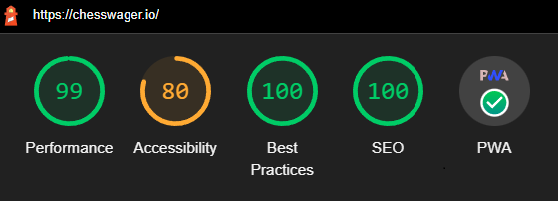
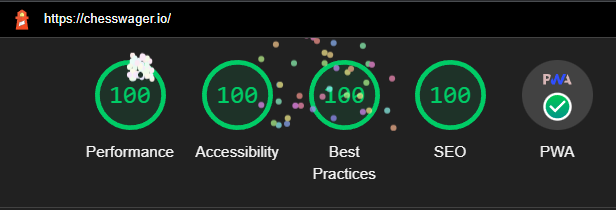
website is now fully accessible, update to readme

diff --git a/src/components/lobby/wager-form/WagerForm.tsx b/src/components/lobby/wager-form/WagerForm.tsx
@@ -16,10 +16,20 @@ import {
 } from "firebase/firestore"
 import { firebaseApp } from "../../../config"
 import { UserDataState } from "../../containers/UserDataState"
-
+import { createTheme } from "@mui/material/styles"
+import { ThemeProvider } from "@mui/system"
+import { DarkMode } from "../../containers/DarkMode"
 const db = getFirestore(firebaseApp)
 
 export const WagerForm: React.FC = () => {
+  const { isDarkOn } = DarkMode.useContainer()
+  const theme = createTheme({
+    palette: {
+      primary: {
+        main: isDarkOn ? "#34d399" : "#166534",
+      },
+    },
+  })
   const { gameId } = GameState.useContainer()
   const {
     walletAddress,
@@ -89,48 +99,50 @@ export const WagerForm: React.FC = () => {
   }
 
   return (
-    <div className="flex h-full rounded-b-md border-r border-b  border-stone-400 bg-stone-200 shadow-2xl dark:border-stone-700 dark:bg-stone-900">
-      <div className="flex w-full p-2">
-        <fieldset className="flex w-full">
-          <form
-            onSubmit={createWager}
-            className="w-full"
-            onKeyPress={(e) => {
-              e.key === "Enter" && e.preventDefault()
-            }}
-          >
-            <div className="flex flex-col justify-around gap-4">
-              <SideChooser betSide={betSide} setBetSide={setBetSide} />
-              <QuickBet
-                setBetAmount={setBetAmount}
-                setLocalAvaxAmount={setLocalAvaxAmount}
-                setLocalUsdAmount={setLocalUsdAmount}
-                setIsAmountEmpty={setIsAmountEmpty}
-              />
-              <BetAmount
-                betAmount={betAmount}
-                setBetAmount={setBetAmount}
-                localAvaxAmount={localAvaxAmount}
-                setLocalAvaxAmount={setLocalAvaxAmount}
-                localUsdAmount={localUsdAmount}
-                setLocalUsdAmount={setLocalUsdAmount}
-                isAmountEmpty={isAmountEmpty}
-                setIsAmountEmpty={setIsAmountEmpty}
-              />
-              <TheirBet multiplier={multiplier} betAmount={betAmount} />
-              <Multiplier
-                setMultiplier={setMultiplier}
-                sliderVal={sliderVal}
-                setSliderVal={setSliderVal}
-              />
-            </div>
-            <div className="mt-4 flex flex-row justify-between gap-2">
-              <Total betAmount={betAmount} multiplier={multiplier} />
-              <PlaceBet />
-            </div>
-          </form>
-        </fieldset>
+    <ThemeProvider theme={theme}>
+      <div className="flex h-full rounded-b-md border-r border-b  border-stone-400 bg-stone-200 shadow-2xl dark:border-stone-700 dark:bg-stone-900">
+        <div className="flex w-full p-2">
+          <fieldset className="flex w-full">
+            <form
+              onSubmit={createWager}
+              className="w-full"
+              onKeyPress={(e) => {
+                e.key === "Enter" && e.preventDefault()
+              }}
+            >
+              <div className="flex flex-col justify-around gap-4">
+                <SideChooser betSide={betSide} setBetSide={setBetSide} />
+                <QuickBet
+                  setBetAmount={setBetAmount}
+                  setLocalAvaxAmount={setLocalAvaxAmount}
+                  setLocalUsdAmount={setLocalUsdAmount}
+                  setIsAmountEmpty={setIsAmountEmpty}
+                />
+                <BetAmount
+                  betAmount={betAmount}
+                  setBetAmount={setBetAmount}
+                  localAvaxAmount={localAvaxAmount}
+                  setLocalAvaxAmount={setLocalAvaxAmount}
+                  localUsdAmount={localUsdAmount}
+                  setLocalUsdAmount={setLocalUsdAmount}
+                  isAmountEmpty={isAmountEmpty}
+                  setIsAmountEmpty={setIsAmountEmpty}
+                />
+                <TheirBet multiplier={multiplier} betAmount={betAmount} />
+                <Multiplier
+                  setMultiplier={setMultiplier}
+                  sliderVal={sliderVal}
+                  setSliderVal={setSliderVal}
+                />
+              </div>
+              <div className="mt-4 flex flex-row justify-between gap-2">
+                <Total betAmount={betAmount} multiplier={multiplier} />
+                <PlaceBet />
+              </div>
+            </form>
+          </fieldset>
+        </div>
       </div>
-    </div>
+    </ThemeProvider>
   )
 }

diff --git a/src/AppWithProviders.tsx b/src/AppWithProviders.tsx
@@ -2,9 +2,6 @@ import { App } from "./App"
 import { Auth } from "./components/containers/Auth"
 import { GameState } from "./components/containers/GameState"
 import { Price } from "./components/containers/Price"
-import { ThemeProvider } from "@mui/system"
-import { createTheme } from "@mui/material/styles"
-import { teal } from "@mui/material/colors"
 import { ChatFormData } from "./components/containers/ChatFormData"
 import { ChatToggle } from "./components/containers/ChatToggle"
 import { DarkMode } from "./components/containers/DarkMode"
@@ -17,11 +14,7 @@ import { ConversationsState } from "./components/containers/ConversationsState"
 import { UserDataState } from "./components/containers/UserDataState"
 import { WindowSize } from "./components/containers/WindowSize"
 
-const theme = createTheme({
-  palette: {
-    primary: teal,
-  },
-})
+
 
 export const AppWithProviders: React.FC = () => {
   return (
@@ -39,9 +32,7 @@ export const AppWithProviders: React.FC = () => {
                           <BetsState.Provider>
                             <ConversationsState.Provider>
                               <UserDataState.Provider>
-                                <ThemeProvider theme={theme}>
-                                  <App />
-                                </ThemeProvider>
+                                <App />
                               </UserDataState.Provider>
                             </ConversationsState.Provider>
                           </BetsState.Provider>

diff --git a/src/components/game/PlayerData.tsx b/src/components/game/PlayerData.tsx
@@ -28,7 +28,7 @@ export const PlayerData: React.FC<Props> = ({
         className="flex flex-col justify-center overflow-hidden hover:text-stone-900 dark:hover:text-white "
       >
         <div className="mx-1.5 flex justify-center">
-          <p className="mx-1 flex font-bold text-teal-700">{title}</p>
+          <p className="mx-1 flex font-bold text-green-700 dark:text-green-500">{title}</p>
           <div className="flex gap-2 hover:underline">
             <p>{name}</p>
             <p className="font-bold">{rating !== 0 ? rating : ""}</p>

diff --git a/src/components/lobby/wager-form/Multiplier.tsx b/src/components/lobby/wager-form/Multiplier.tsx
@@ -77,6 +77,7 @@ export const Multiplier: React.FC<Props> = ({
             max={0.99}
             step={0.01}
             size="small"
+            aria-label="multiplier-slider"
           />
           <p className="flex justify-center">
             <CurrencyInput
@@ -91,6 +92,7 @@ export const Multiplier: React.FC<Props> = ({
               onKeyPress={(e) => {
                 e.key === "Enter" && e.currentTarget.blur()
               }}
+              aria-label="multiplier-number-input"
             />
           </p>
         </div>

diff --git a/src/components/body/ShowChatButton.tsx b/src/components/body/ShowChatButton.tsx
@@ -16,6 +16,7 @@ export const ShowChatButton: React.FC<Props> = ({}) => {
             localStorage.setItem("showChat", "true")
           }}
           className="color-shift absolute top-12 right-0 m-3 rounded-md hover:bg-stone-400 dark:hover:bg-stone-700"
+          title="Show Chat"
         >
           <BiArrowFromRight
             size="1.4em"

diff --git a/src/components/chat/ChatHeader.tsx b/src/components/chat/ChatHeader.tsx
@@ -19,6 +19,7 @@ export const ChatHeader: React.FC = () => {
         <BiArrowFromLeft
           size="1.3em"
           className="color-shift m-1 text-stone-900 dark:text-stone-50"
+          title="Hide Chat"
         />
       </button>
       <div className="text-bold text-md grid place-content-center text-stone-900 dark:text-stone-50">

diff --git a/src/components/lobby/lobby-header/AscDescDisplay.tsx b/src/components/lobby/lobby-header/AscDescDisplay.tsx
@@ -10,6 +10,7 @@ export const AscDescDisplay: React.FC = () => {
       onClick={() => {
         setIsDescending(!isDescending)
       }}
+      aria-label="sorting-order-button"
     >
       <>
         {mostRecentButton === "" ? (

diff --git a/README.md b/README.md
@@ -1,14 +1,15 @@
 [![](readme-assets/banner.png)](https://chesswager.io/)
 
 ##### Chesswager is a highly performant hybrid dApp that uses smart contracts to securely facilitate betting on the top professional games being played on [LichessTV](https://lichess.org/tv)
+
 ---
 
-
 <!-- https://shields.io/ -->
+
 [![License](https://img.shields.io/github/license/geektechniquestudios/ChessWager)](#)
 [![PRs Welcome](https://img.shields.io/badge/PRs-welcome-brightgreen.svg)](#)
-<!-- [![Build](https://img.shields.io/github/checks-status/geektechniquestudios/ChessWager/main)](#) -->
 
+<!-- [![Build](https://img.shields.io/github/checks-status/geektechniquestudios/ChessWager/main)](#) -->
 
 ChessWager is live. A mainnet currency is not supported yet, but you can play on the Avalanche testnet. Download [Metamask](https://metamask.io/download/), switch to the [Avalanche Testnet](https://umbria.network/connect/avalanche-fuji-testnet), and [add some test currency](https://faucet.avax-test.network/) to play at https://chesswager.io/.
 
@@ -17,65 +18,71 @@ ChessWager is live. A mainnet currency is not supported yet, but you can play on
 ### Performance
 
 [![](readme-assets/lighthouse1.png)](#)
-###### Accessibility improvements coming soon
 
-  - Users can consistently expect payout within 5 seconds of a game ending.
-  - Database load times are ususally between 50-100ms. 
-  - The bundle size is 384.36KiB. All code is tree-shakable. 
-  - Less than 25MB of the client's system memory is used under peak loads.
+- Users can consistently expect payout within 5 seconds of a game ending.
+- Database load times are ususally between 50-100ms.
+- Less than 25MB of the client's system memory is used under peak loads.
 
 [![](readme-assets/lighthouse2.png)](#)
 
+###### lighthouse warns "There may be stored data affecting loading performance in this location: IndexedDB". There seems to be no way to test this app without getting that warning even in a private tab.
+###### lighthouse warns "The page loaded too slowly to finish within the time limit. Results may be incomplete." This is because of the continuous data stream from lichess never closing.
+
 ### Data Flow
 
-  The client relies on a Firestore serverless infrastructure. When a page loads, the client subscribes to the LichessTV API and loads real-time data about chats, bets, and users from the Firestore database. For performance reasons, the browser never loads data directly from the contract.
+The client relies on a Firestore serverless infrastructure. When a page loads, the client subscribes to the LichessTV API and loads real-time data about chats, bets, and users from the Firestore database. For performance reasons, the browser never loads data directly from the contract.
 
-  A few distinct programs run in an isolated cloud environment to interact with the smart contract. One of those programs listens for user payments on the smart contract. Once two users agree to a wager, their Metamask wallets will prompt each user with the appropriate amount. When a user sends a transaction to the contract, the contract listener writes an update to the Firestore database. These changes are reflected immediately in the UI, visually informing users that their payment was received. When a bet is matched, the conditions of the bet are compared in the smart contract. If the values don't perfectly match, the transaction is rejected. 
+A few distinct programs run in an isolated cloud environment to interact with the smart contract. One of those programs listens for user payments on the smart contract. Once two users agree to a wager, their Metamask wallets will prompt each user with the appropriate amount. When a user sends a transaction to the contract, the contract listener writes an update to the Firestore database. These changes are reflected immediately in the UI, visually informing users that their payment was received. When a bet is matched, the conditions of the bet are compared in the smart contract. If the values don't perfectly match, the transaction is rejected.
 
-  Another isolated backend program subscribes to the LichessTV API. At the end of each game, that program interacts with the smart contract telling it to complete the bet transactions paying the winners or refunding users accordingly. 
-  
+Another isolated backend program subscribes to the LichessTV API. At the end of each game, that program interacts with the smart contract telling it to complete the bet transactions paying the winners or refunding users accordingly.
+
 ![](readme-assets/data-flow.png)
-  
-  This system emphasizes speed and responsiveness by using centralized systems for bet pairing and user interactions. However, many benefits of decentralization are maintained through the smart contracts, ensuring that users' funds are secured and only payable to the respective accounts that placed the bet. The service is entirely non-custodial, meaning that chesswager never actually possesses your funds; they are instead stored in the smart contract on the blockchain for the duration of the bet.
-     
+
+This system emphasizes speed and responsiveness by using centralized systems for bet pairing and user interactions. However, many benefits of decentralization are maintained through the smart contracts, ensuring that users' funds are secured and only payable to the respective accounts that placed the bet. The service is entirely non-custodial, meaning that chesswager never actually possesses your funds; they are instead stored in the smart contract on the blockchain for the duration of the bet.
+
 ### Roadmap
 
 We are nearing the end of phase 2. Our primary features are functional and complete. Most behaviors are thoroughly tested. All that remains are a few tests, making some elements responsive so they look better on smaller displays, new user onboarding guides, and some customer service options so we can know if something goes wrong.
 
 ![](readme-assets/roadmap.png)
 
- ### Primary Technologies
-   ###### Build & Package Management
-   [![Yarn](https://img.shields.io/badge/Yarn-%232C8EBB.svg?style=flat&logo=yarn&logoColor=white&labelColor=525252)](#)
-   [![Vite](https://badges.aleen42.com/src/vitejs.svg)](#)
+### Primary Technologies
 
-   ###### Frontend
-   [![TypeScript](https://badges.aleen42.com/src/typescript.svg)](#)
-   [![React](https://badges.aleen42.com/src/react.svg)](#)
-   [![TailwindCSS](https://badges.aleen42.com/src/tailwindcss.svg)](#)
-   [![Ethers](https://img.shields.io/badge/Ethers-%23363636.svg?style=flat&logo=ethereum&logoColor=white&labelColor=525252)](#)
+###### Build & Package Management
 
-   ###### Backend
-   [![TypeScript](https://badges.aleen42.com/src/typescript.svg)](#)
-   [![NodeJS](https://badges.aleen42.com/src/node.svg)](#)
-   [![Solidity](https://img.shields.io/badge/Solidity-%23363636.svg?style=flat&logo=solidity&logoColor=white&labelColor=525252)](#)
[1 lines of base64/hex data omitted]
-   [![Firebase](https://img.shields.io/badge/Firebase-%23039BE5.svg?style=flat&logo=firebase&labelColor=525252)](#)
+[![Yarn](https://img.shields.io/badge/Yarn-%232C8EBB.svg?style=flat&logo=yarn&logoColor=white&labelColor=525252)](#)
+[![Vite](https://badges.aleen42.com/src/vitejs.svg)](#)
 
+###### Frontend
 
-   ###### Testing
-   [![Cypress](https://img.shields.io/badge/-Cypress-%23E5E5E5?style=flat&logo=cypress&logoColor=058a5e&labelColor=525252)](#)
-   [![Jest](https://img.shields.io/badge/-Jest-%23C21325?style=flat&logo=jest&logoColor=white&labelColor=525252)](#)
-   [![Chai](https://img.shields.io/badge/-Chai-lightsalmon?style=flat&logo=chai&logoColor=yellow&labelColor=525252)](#)
[2 lines of base64/hex data omitted]
- 
-   ###### Cloud
-   [![Google Cloud](https://img.shields.io/badge/GoogleCloud-%234285F4.svg?style=flat&logo=google-cloud&logoColor=white&prefix=test&labelColor=525252)](#)
-   [![Docker](https://badges.aleen42.com/src/docker.svg)](#)
-   [![Kubernetes](https://img.shields.io/badge/Kubernetes-%23326ce5.svg?style=flat&logo=kubernetes&logoColor=white&labelColor=525252)](#)
[2 lines of base64/hex data omitted]
+[![TypeScript](https://badges.aleen42.com/src/typescript.svg)](#)
+[![React](https://badges.aleen42.com/src/react.svg)](#)
+[![TailwindCSS](https://badges.aleen42.com/src/tailwindcss.svg)](#)
+[![Ethers](https://img.shields.io/badge/Ethers-%23363636.svg?style=flat&logo=ethereum&logoColor=white&labelColor=525252)](#)
+
+###### Backend
+
+[![TypeScript](https://badges.aleen42.com/src/typescript.svg)](#)
+[![NodeJS](https://badges.aleen42.com/src/node.svg)](#)
+[![Solidity](https://img.shields.io/badge/Solidity-%23363636.svg?style=flat&logo=solidity&logoColor=white&labelColor=525252)](#)
[1 lines of base64/hex data omitted]
+[![Firebase](https://img.shields.io/badge/Firebase-%23039BE5.svg?style=flat&logo=firebase&labelColor=525252)](#)
+
+###### Testing
+
+[![Cypress](https://img.shields.io/badge/-Cypress-%23E5E5E5?style=flat&logo=cypress&logoColor=058a5e&labelColor=525252)](#)
+[![Jest](https://img.shields.io/badge/-Jest-%23C21325?style=flat&logo=jest&logoColor=white&labelColor=525252)](#)
+[![Chai](https://img.shields.io/badge/-Chai-lightsalmon?style=flat&logo=chai&logoColor=yellow&labelColor=525252)](#)
[2 lines of base64/hex data omitted]
+
+###### Cloud
+
+[![Google Cloud](https://img.shields.io/badge/GoogleCloud-%234285F4.svg?style=flat&logo=google-cloud&logoColor=white&prefix=test&labelColor=525252)](#)
+[![Docker](https://badges.aleen42.com/src/docker.svg)](#)
+[![Kubernetes](https://img.shields.io/badge/Kubernetes-%23326ce5.svg?style=flat&logo=kubernetes&logoColor=white&labelColor=525252)](#)
[2 lines of base64/hex data omitted]
 
 ### Contributions
 
@@ -83,23 +90,21 @@ This repository's branch structure is designed similarly to the standard [gitflo
 
 ![](readme-assets/git-model.png)
 
-  - *Develop* could have any environmental changes at any time.
-  - *Test* will only have user testing and controlled tests running on its environment during the build process.
-  - *Main* operates in the production environment.
+- _Develop_ could have any environmental changes at any time.
+- _Test_ will only have user testing and controlled tests running on its environment during the build process.
+- _Main_ operates in the production environment.
 
 If you would like to contribute to this repo, start by opening an issue so we can discuss the feature. Create a feature branch from develop and make a pull request into develop when you're done.
 
 For style and linting, there is a prettier config file as well as a tailwind plugin for prettier in the dev dependencies. We use Cypress for our frontend testing, Jest for the backend, and hardhat+waffle on smart contracts. The testing requirements are that all behaviors should be tested before release, not necessarily every line of code.
 
-
 ### Values
 
 Values are subject to evolution and change at this point, but it is paramount to establish the desired culture early. You may have heard of some of these before, but I'm taking what I like from top companies:
 
-  1. **Customer Obsession** - Amazon is famous for this. Without any customers, there's no business. Customers are simply the most important part of the equation. That means keeping our services clean and friendly. We will strive to deliver the best experience through customer service and a quality product.
-  2. **Code Standards** - Robert "Uncle Bob" Martin influenced this one. We promise never to release code whose behavior is not well tested. A bug will never knowingly make its way into production.
-  3. **Don't Be Evil** - Google used to say this, and we agree that businesses should not leave a negative impact. We will never implement anti-consumer mechanisms or knowingly cause harm.
-  4. **Treat Everyone with Respect and Dignity** - We will always be respectful internally and externally, even in the face of obscenity. That means customers, employees, and strangers.
-
+1. **Customer Obsession** - Amazon is famous for this. Without any customers, there's no business. Customers are simply the most important part of the equation. That means keeping our services clean and friendly. We will strive to deliver the best experience through customer service and a quality product.
+2. **Code Standards** - Robert "Uncle Bob" Martin influenced this one. We promise never to release code whose behavior is not well tested. A bug will never knowingly make its way into production.
+3. **Don't Be Evil** - Google used to say this, and we agree that businesses should not leave a negative impact. We will never implement anti-consumer mechanisms or knowingly cause harm.
+4. **Treat Everyone with Respect and Dignity** - We will always be respectful internally and externally, even in the face of obscenity. That means customers, employees, and strangers.
 
 ###### Feedback is welcome
